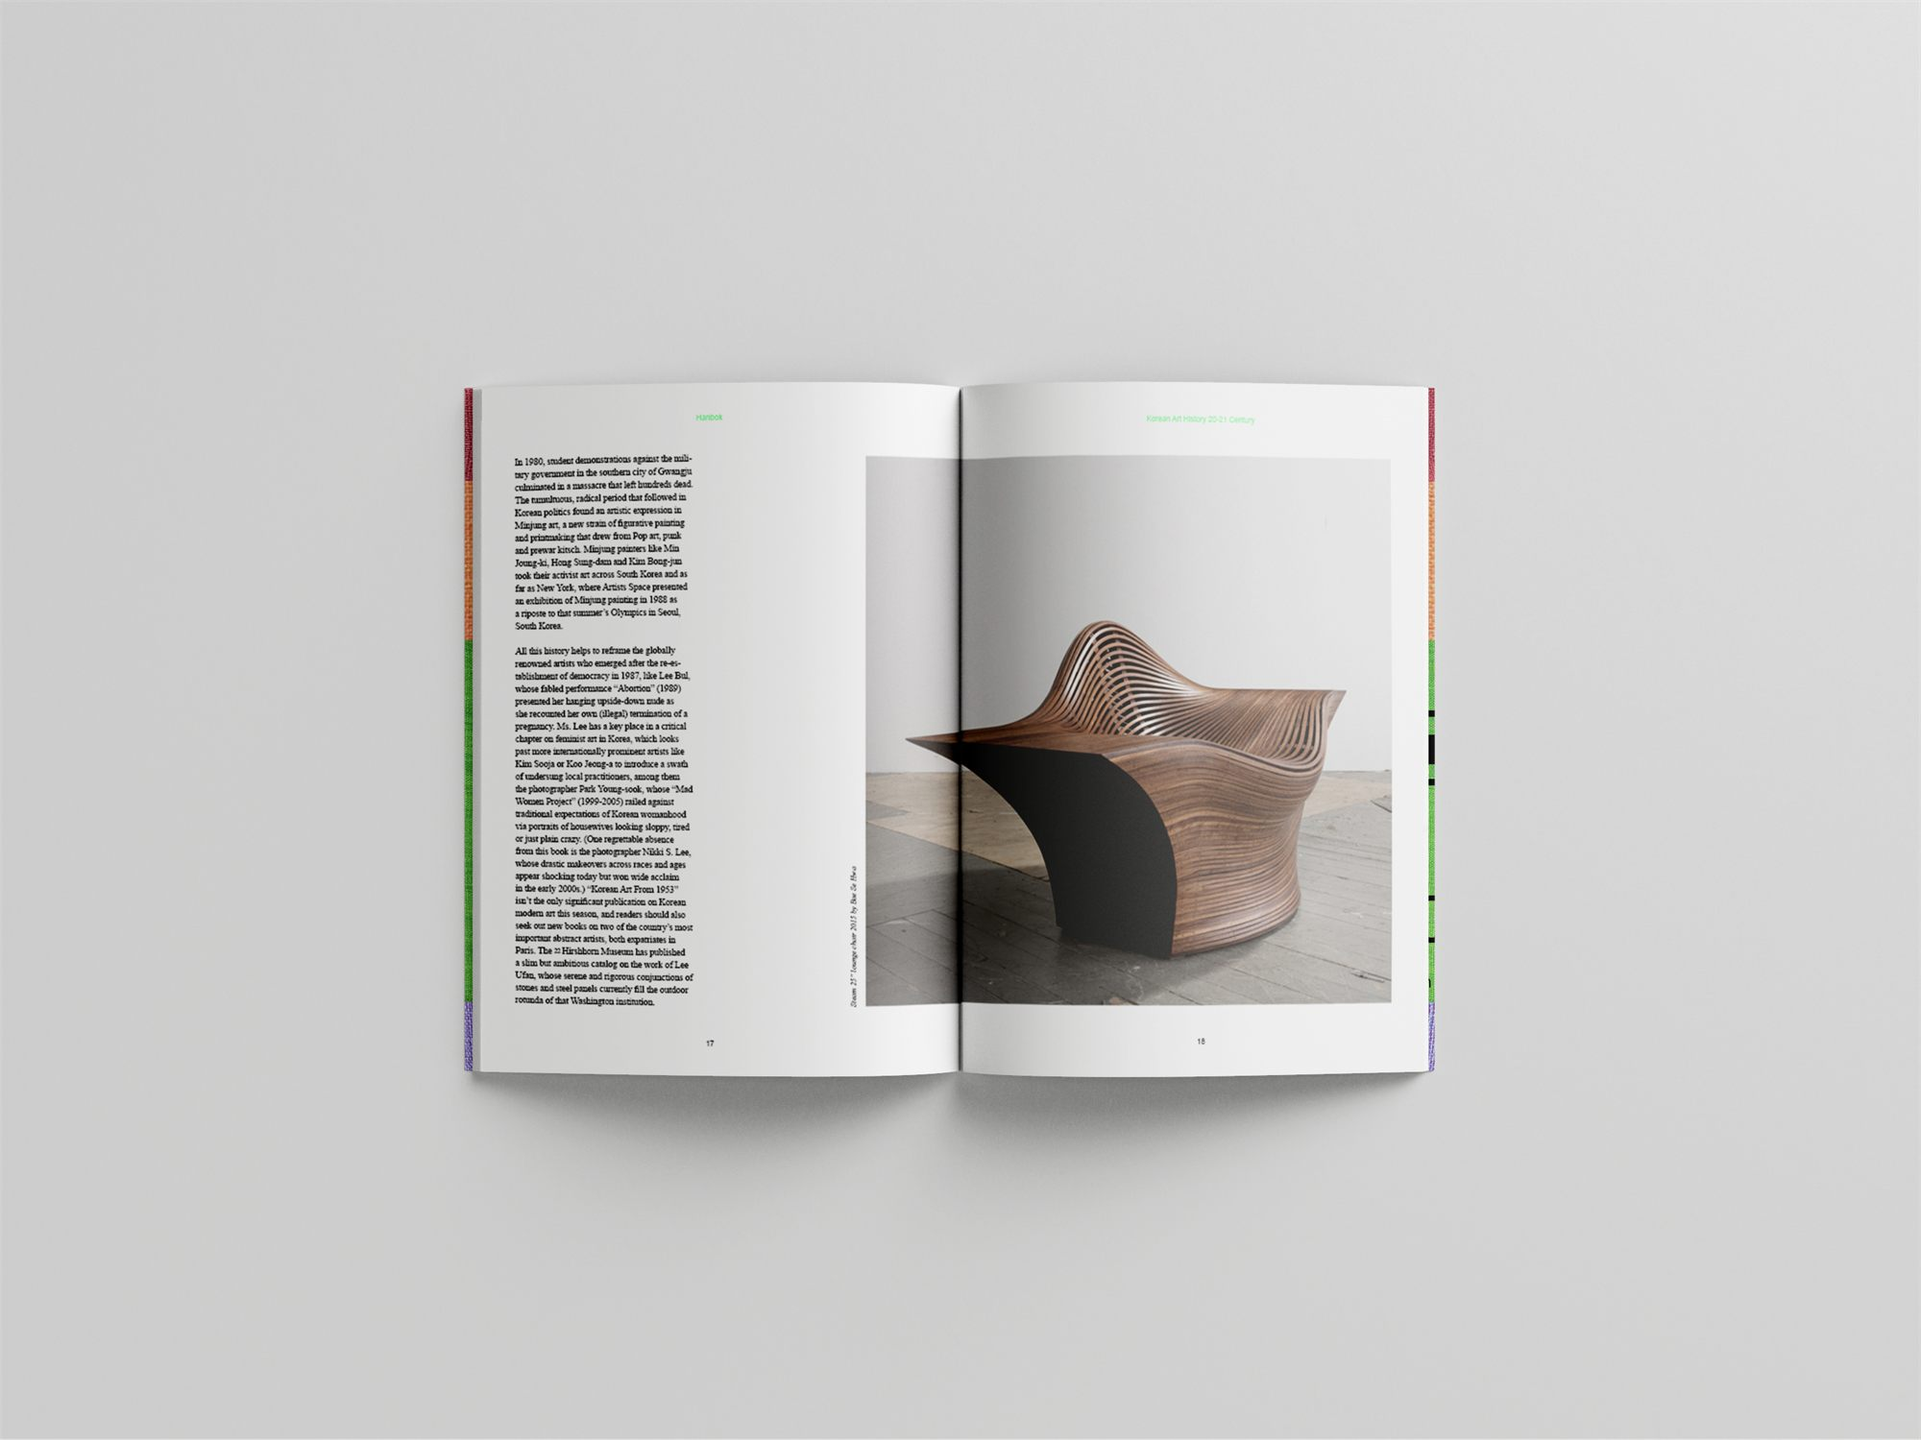
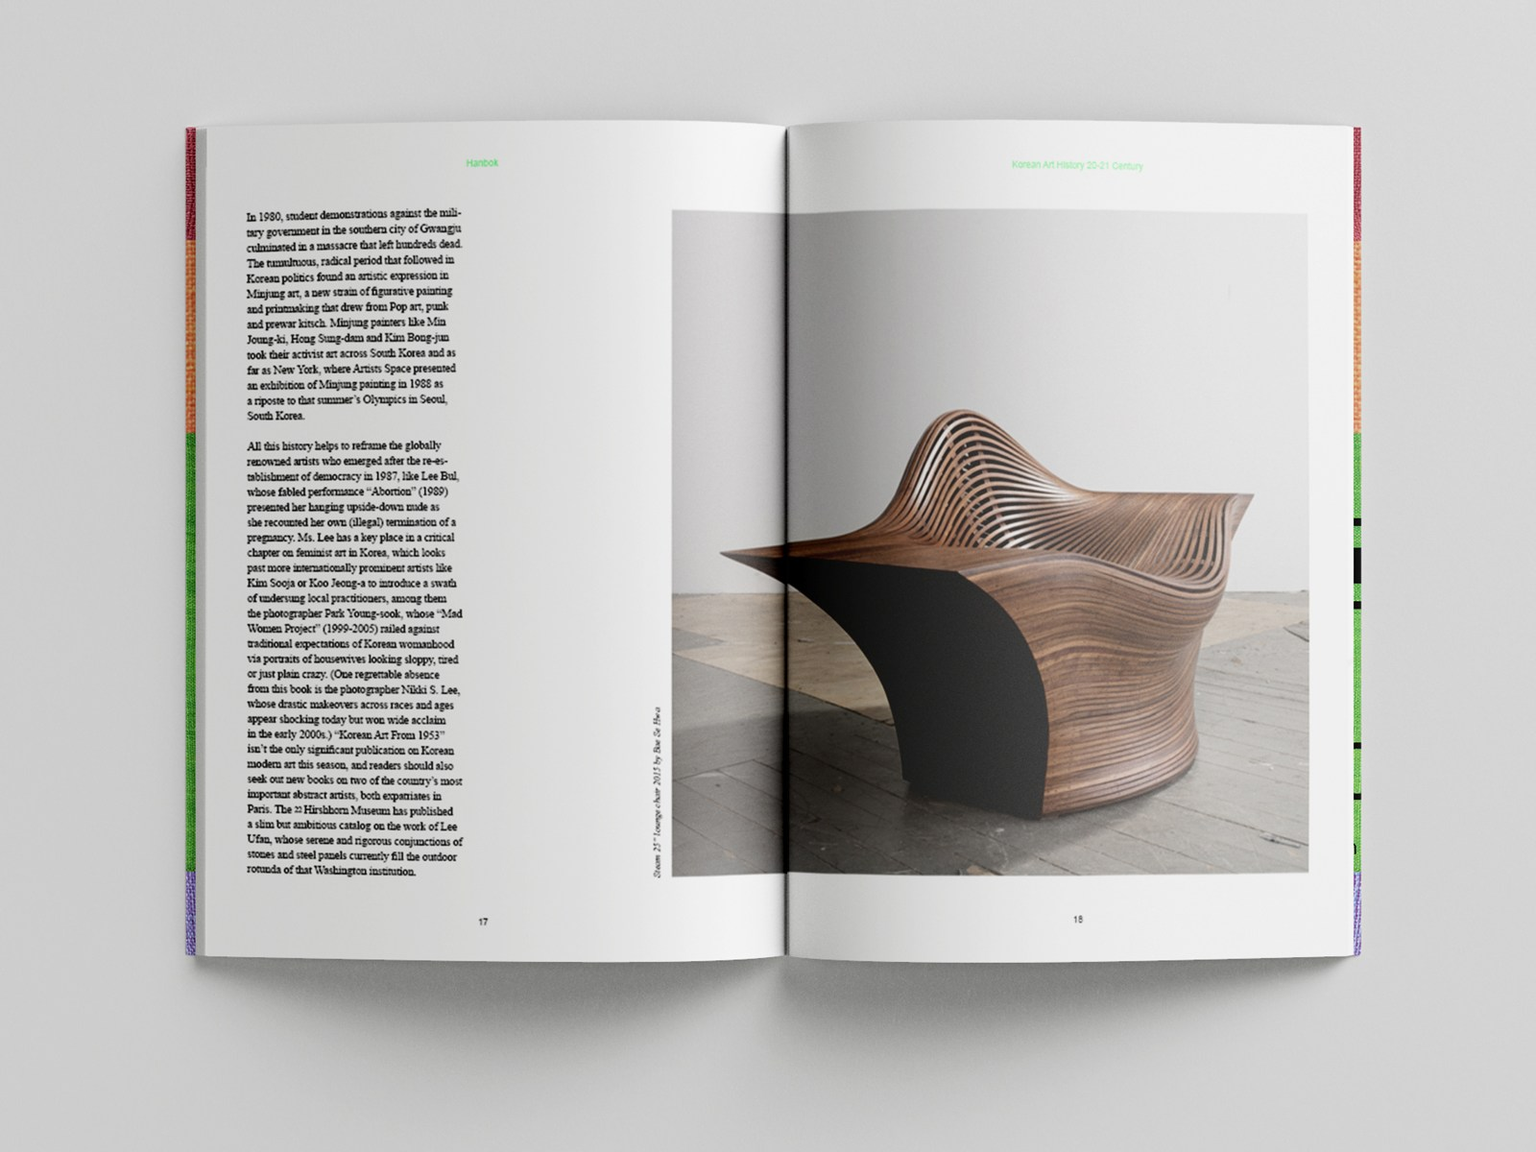
Hanbok: zoom the six book spreads (and the hero) in on the book
Re-cropped from the 3000px originals so the book fills about three quarters of each frame.

diff --git a/assets/media.js b/assets/media.js
@@ -9,7 +9,7 @@ window.MEDIA = {
   'shampoo-bar': { cover: 'images/shampoo-bar/01.jpg', coverRatio: '1920 / 1080', images: [['images/shampoo-bar/01.jpg', 1920, 1080], ['images/shampoo-bar/02.jpg', 1920, 1080], ['images/shampoo-bar/03.jpg', 1920, 1080], ['images/shampoo-bar/04.jpg', 1920, 1080], ['images/shampoo-bar/05.jpg', 1637, 921], ['images/shampoo-bar/06.jpg', 1920, 1080], ['images/shampoo-bar/07.jpg', 2000, 1509], ['images/shampoo-bar/08.png', 2000, 1509], ['images/shampoo-bar/09.jpg', 1280, 720], ['images/shampoo-bar/10.jpg', 1280, 720], ['images/shampoo-bar/11.jpg', 2000, 1126]] },
   'minari': { cover: 'images/minari/01.jpg', coverRatio: '2000 / 1125', images: [['images/minari/01.jpg', 2000, 1125], ['images/minari/02.jpg', 2000, 1125], ['images/minari/03.jpg', 2000, 1125], ['images/minari/04.jpg', 2000, 1125], ['images/minari/05.jpg', 2000, 1125], ['images/minari/06.jpg', 2000, 1125], ['images/minari/07.jpg', 2000, 1125], ['images/minari/08.jpg', 2000, 1125], ['images/minari/09.png', 2000, 1125], ['images/minari/10.png', 2000, 1125]] },
   'gsa': { cover: 'images/gsa/01.jpg', coverRatio: '2000 / 900', images: [['images/gsa/01.jpg', 2000, 900], ['images/gsa/02.png', 2000, 1214], ['images/gsa/03.png', 2000, 1214], ['images/gsa/04.png', 2000, 1214], ['images/gsa/05.png', 2000, 1214], ['images/gsa/06.png', 2000, 1214], ['images/gsa/07.png', 2000, 1214], ['images/gsa/08.png', 2000, 1214], ['images/gsa/09.jpg', 2000, 1214], ['images/gsa/10.jpg', 1333, 2000], ['images/gsa/11.jpg', 1333, 2000], ['images/gsa/12.jpg', 1333, 2000], ['images/gsa/13.jpg', 2000, 1214], ['images/gsa/14.jpg', 2000, 1214], ['images/gsa/15.jpg', 2000, 1334], ['images/gsa/16.jpg', 1024, 683], ['images/gsa/17.jpg', 2000, 1214], ['images/gsa/18.png', 2000, 1214], ['images/gsa/19.mp4', 1920, 1080], ['images/gsa/20.mp4', 1920, 1080], ['images/gsa/21.mp4', 1920, 1080]] },
-  'hanbok': { cover: 'images/hanbok/01.jpg', coverRatio: '2000 / 1500', images: [['images/hanbok/01.jpg', 2000, 1500], ['images/hanbok/02.jpg', 2000, 1500], ['images/hanbok/03.jpg', 2000, 1500], ['images/hanbok/04.jpg', 2000, 1500], ['images/hanbok/05.jpg', 2000, 1500], ['images/hanbok/06.jpg', 2000, 1500], ['images/hanbok/07.jpg', 2000, 1500], ['images/hanbok/08.jpg', 2000, 1500], ['images/hanbok/09.jpg', 2000, 1429], ['images/hanbok/10.jpg', 2000, 1429], ['images/hanbok/11.png', 1333, 2000], ['images/hanbok/12.png', 1333, 2000], ['images/hanbok/13.png', 1333, 2000], ['images/hanbok/14.jpg', 1709, 1265], ['images/hanbok/15.jpg', 1920, 1080], ['images/hanbok/16.jpg', 1920, 1080], ['images/hanbok/17.jpg', 1920, 1080], ['images/hanbok/18.jpg', 1920, 1080]] },
+  'hanbok': { cover: 'images/hanbok/01.jpg', coverRatio: '2000 / 1500', images: [['images/hanbok/01.jpg', 2000, 1500], ['images/hanbok/02.jpg', 2000, 1500], ['images/hanbok/03.jpg', 1600, 1200], ['images/hanbok/04.jpg', 1600, 1200], ['images/hanbok/05.jpg', 1600, 1200], ['images/hanbok/06.jpg', 1600, 1200], ['images/hanbok/07.jpg', 1600, 1200], ['images/hanbok/08.jpg', 1600, 1200], ['images/hanbok/09.jpg', 2000, 1429], ['images/hanbok/10.jpg', 2000, 1429], ['images/hanbok/11.png', 1333, 2000], ['images/hanbok/12.png', 1333, 2000], ['images/hanbok/13.png', 1333, 2000], ['images/hanbok/14.jpg', 1709, 1265], ['images/hanbok/15.jpg', 1920, 1080], ['images/hanbok/16.jpg', 1920, 1080], ['images/hanbok/17.jpg', 1920, 1080], ['images/hanbok/18.jpg', 1920, 1080]] },
   'bibi': { cover: 'images/bibi/07.jpg', coverRatio: '2000 / 752', images: [['images/bibi/01.jpg', 2000, 417], ['images/bibi/02.jpg', 2000, 455], ['images/bibi/04.jpg', 1200, 250], ['images/bibi/06.jpg', 1200, 553], ['images/bibi/07.jpg', 2000, 752], ['images/bibi/10.png', 2000, 2000], ['images/bibi/11.png', 2000, 2000], ['images/bibi/12.jpg', 1000, 11921], ['images/bibi/13.jpg', 1000, 11921], ['images/bibi/18.jpg', 1000, 10971], ['images/bibi/19.jpg', 1000, 10644], ['images/bibi/20.gif', 600, 450], ['images/bibi/21.jpg', 1000, 10226], ['images/bibi/22.png', 1600, 2000], ['images/bibi/23.jpg', 1600, 2000], ['images/bibi/24.jpg', 1600, 2000], ['images/bibi/25.mp4', 2251, 2814], ['images/bibi/26.jpg', 1600, 2000], ['images/bibi/27.jpg', 1500, 1875], ['images/bibi/28.mp4', 834, 1043], ['images/bibi/29.jpg', 1497, 1871], ['images/bibi/30.jpg', 1497, 1871], ['images/bibi/31.jpg', 1353, 947], ['images/bibi/32.jpg', 1258, 947], ['images/bibi/33.jpg', 1342, 892], ['images/bibi/34.jpg', 1595, 1027], ['images/bibi/36.jpg', 1353, 909], ['images/bibi/37.jpg', 1272, 912], ['images/bibi/38.jpg', 1909, 902], ['images/bibi/39.jpg', 1905, 905], ['images/bibi/40.jpg', 1510, 902], ['images/bibi/41.jpg', 980, 909], ['images/bibi/42.jpg', 1275, 886], ['images/bibi/43.jpg', 1916, 907], ['images/bibi/44.jpg', 1630, 904], ['images/bibi/45.jpg', 800, 1200], ['images/bibi/46.jpg', 800, 1200], ['images/bibi/47.jpg', 800, 1200], ['images/bibi/48.jpg', 800, 1200], ['images/bibi/49.jpg', 800, 1200], ['images/bibi/50.jpg', 800, 1200], ['images/bibi/63.jpg', 800, 1199], ['images/bibi/64.jpg', 800, 1199], ['images/bibi/65.jpg', 800, 1199], ['images/bibi/66.jpg', 800, 1199], ['images/bibi/67.jpg', 800, 1199], ['images/bibi/68.jpg', 800, 1199], ['images/bibi/69.jpg', 800, 1199], ['images/bibi/70.jpg', 800, 1199], ['images/bibi/71.jpg', 800, 1199], ['images/bibi/78.jpg', 800, 1200], ['images/bibi/79.jpg', 800, 1200], ['images/bibi/80.jpg', 800, 1200], ['images/bibi/81.jpg', 800, 1200], ['images/bibi/82.jpg', 800, 1200], ['images/bibi/83.jpg', 800, 1200], ['images/bibi/84.jpg', 800, 1200], ['images/bibi/91.jpg', 800, 1200], ['images/bibi/92.jpg', 800, 1200], ['images/bibi/93.jpg', 800, 1200], ['images/bibi/94.jpg', 800, 1200], ['images/bibi/95.jpg', 800, 1200], ['images/bibi/96.jpg', 800, 1200], ['images/bibi/97.jpg', 800, 1200], ['images/bibi/98.jpg', 800, 1200], ['images/bibi/103.jpg', 1334, 2000], ['images/bibi/104.jpg', 1334, 2000], ['images/bibi/105.jpg', 1334, 2000], ['images/bibi/106.jpg', 1334, 2000], ['images/bibi/107.jpg', 1342, 2000], ['images/bibi/108.jpg', 1342, 2000], ['images/bibi/109.jpg', 1334, 2000], ['images/bibi/110.jpg', 1342, 2000], ['images/bibi/111.jpg', 1342, 2000], ['images/bibi/114.jpg', 800, 1199], ['images/bibi/116.jpg', 800, 1199], ['images/bibi/117.jpg', 800, 1199], ['images/bibi/119.jpg', 800, 1199], ['images/bibi/123.jpg', 800, 1200], ['images/bibi/124.jpg', 800, 1200], ['images/bibi/125.jpg', 800, 1200], ['images/bibi/128.jpg', 800, 1200], ['images/bibi/129.jpg', 800, 1200], ['images/bibi/130.jpg', 800, 1200], ['images/bibi/131.jpg', 800, 1200], ['images/bibi/132.jpg', 800, 1200], ['images/bibi/133.jpg', 800, 1200], ['images/bibi/134.jpg', 800, 1200], ['images/bibi/135.jpg', 800, 1200], ['images/bibi/136.jpg', 800, 1200], ['images/bibi/137.jpg', 800, 1200], ['images/bibi/138.jpg', 800, 1200], ['images/bibi/139.jpg', 800, 1200], ['images/bibi/140.jpg', 800, 1200], ['images/bibi/14.gif', 1667, 1250], ['images/bibi/85.jpg', 800, 1199], ['images/bibi/86.jpg', 800, 1199], ['images/bibi/87.jpg', 800, 1199], ['images/bibi/88.jpg', 800, 1199], ['images/bibi/89.jpg', 800, 1199], ['images/bibi/90.jpg', 800, 1199], ['images/bibi/141.jpg', 494, 663], ['images/bibi/142.jpg', 1880, 280], ['images/bibi/143.jpg', 2000, 1031], ['images/bibi/144.jpg', 2000, 992], ['images/bibi/145.jpg', 2000, 974], ['images/bibi/146.jpg', 800, 1199], ['images/bibi/147.jpg', 800, 1199], ['images/bibi/148.jpg', 488, 626], ['images/bibi/149.jpg', 800, 1200]], clips: ['videos/bibi/01.mp4', 'videos/bibi/02.mp4', 'videos/bibi/04.mp4'] },
   'warp': { cover: 'images/covers/warp.jpg', coverRatio: '1440 / 810', images: [['images/warp/01.png', 1000, 3363], ['images/warp/02.jpg', 1000, 3940], ['images/warp/03.jpg', 1000, 3973], ['images/warp/04.jpg', 1000, 3766], ['images/warp/05.jpg', 1000, 2710], ['images/warp/06.jpg', 1000, 2766], ['images/warp/07.jpg', 1000, 2803], ['images/warp/08.jpg', 1000, 3120], ['images/warp/09.jpg', 1000, 2941], ['images/warp/10.png', 1000, 2867], ['images/warp/11.jpg', 1000, 6250], ['images/warp/12.png', 1000, 5810], ['images/warp/13.jpg', 1440, 1369], ['images/warp/14.jpg', 390, 5541] , ['images/warp/15.jpg', 1200, 1200], ['images/warp/16.jpg', 1200, 1200], ['images/warp/17.jpg', 1200, 1200], ['images/warp/18.jpg', 1200, 1200], ['images/warp/19.jpg', 1200, 1200], ['images/warp/20.jpg', 1200, 1200], ['images/warp/21.jpg', 1200, 1200], ['images/warp/22.jpg', 1200, 1200], ['images/warp/23.jpg', 1200, 1200], ['images/warp/24.jpg', 1200, 1200], ['images/warp/25.jpg', 1200, 1200], ['images/warp/26.jpg', 1200, 1200], ['images/warp/27.jpg', 1200, 1200], ['images/warp/28.jpg', 1200, 1200], ['images/warp/29.jpg', 1200, 1200], ['images/warp/30.jpg', 1200, 1200], ['images/warp/31.jpg', 1080, 1080], ['images/warp/32.jpg', 1200, 1200], ['images/warp/33.jpg', 1200, 1200], ['images/warp/34.jpg', 1080, 1080], ['images/warp/35.jpg', 1480, 975], ['images/warp/36.jpg', 1580, 1100], ['images/warp/37.jpg', 1600, 1114], ['images/warp/38.jpg', 1600, 1114], ['images/warp/39.jpg', 1600, 1103], ['images/warp/40.jpg', 1600, 1114], ['images/warp/41.jpg', 1334, 1080], ['images/warp/42.jpg', 1334, 1080], ['images/warp/43.jpg', 1224, 964], ['images/warp/44.jpg', 1224, 964], ['images/warp/45.jpg', 1224, 964], ['images/warp/46.jpg', 1600, 1043], ['images/warp/47.jpg', 1600, 1043], ['images/warp/48.jpg', 1600, 821], ['images/warp/49.jpg', 1600, 821], ['images/warp/50.jpg', 1600, 821], ['images/warp/51.jpg', 1600, 900], ['images/warp/52.jpg', 1600, 1007], ['images/warp/53.jpg', 1600, 900], ['images/warp/54.jpg', 1600, 900]] }, 
   'ig-characters': { cover: 'images/ig-characters/01.jpg', coverRatio: '1440 / 1440', images: [['images/ig-characters/01.jpg', 1440, 1440], ['images/ig-characters/02.jpg', 1440, 1439], ['images/ig-characters/03.jpg', 759, 720], ['images/ig-characters/04.jpg', 1080, 1349]] },

diff --git a/index.html b/index.html
@@ -19,19 +19,19 @@
 <meta name="theme-color" content="#0B0D10" data-theme-meta>
 <link rel="icon" href="favicon.ico" sizes="48x48">
 <link rel="icon" href="favicon-32.png" type="image/png" sizes="32x32">
-<link rel="icon" href="assets/logo.svg?v=202611220330" type="image/svg+xml">
+<link rel="icon" href="assets/logo.svg?v=202611220335" type="image/svg+xml">
 <link rel="apple-touch-icon" href="apple-touch-icon.png">
 <link rel="preconnect" href="https://fonts.googleapis.com">
 <link rel="preconnect" href="https://fonts.gstatic.com" crossorigin>
 <link href="https://fonts.googleapis.com/css2?family=Unbounded:wght@800;900&family=Manrope:wght@400;500;700;800&family=Martian+Mono:wght@400;500&display=swap" rel="stylesheet">
-<link rel="stylesheet" href="assets/style.css?v=202611220330">
+<link rel="stylesheet" href="assets/style.css?v=202611220335">
 </head>
 <body>
 <div class="es">
 <a class="es-skip" href="#main">Skip to content</a>
 <header class="es-header">
   <div class="es-wrap es-header__row">
-    <a class="es-logo" href="./" aria-label="Eva Song, home"><img src="assets/logo.svg?v=202611220330" alt="Eva Song logo" width="36" height="46"></a>
+    <a class="es-logo" href="./" aria-label="Eva Song, home"><img src="assets/logo.svg?v=202611220335" alt="Eva Song logo" width="36" height="46"></a>
     <div class="es-header__right">
       <nav class="es-nav" aria-label="Main">
       <a href="./#work"><span>[W]</span> Work</a>
@@ -77,7 +77,7 @@
     </div>
   </nav>
 
-  <!-- 01 SEASON PASS (WORK): tiles are built from assets/data.js?v=202611220330 -->
+  <!-- 01 SEASON PASS (WORK): tiles are built from assets/data.js?v=202611220335 -->
   <section class="es-section es-pass" id="work" aria-label="Season pass">
     <div class="es-wrap es-headrow">
       <div>
@@ -194,9 +194,9 @@
 
 </main>
 </div>
-<script src="assets/media.js?v=202611220330"></script>
-<script src="assets/data.js?v=202611220330"></script>
-<script src="assets/main.js?v=202611220330"></script>
+<script src="assets/media.js?v=202611220335"></script>
+<script src="assets/data.js?v=202611220335"></script>
+<script src="assets/main.js?v=202611220335"></script>
 <!-- visitor stats: https://evasong.goatcounter.com (no cookies) -->
 <script data-goatcounter="https://evasong.goatcounter.com/count" async src="//gc.zgo.at/count.js"></script>
 </body>

diff --git a/project.html b/project.html
@@ -18,19 +18,19 @@
 <meta name="theme-color" content="#0B0D10" data-theme-meta>
 <link rel="icon" href="favicon.ico" sizes="48x48">
 <link rel="icon" href="favicon-32.png" type="image/png" sizes="32x32">
-<link rel="icon" href="assets/logo.svg?v=202611220330" type="image/svg+xml">
+<link rel="icon" href="assets/logo.svg?v=202611220335" type="image/svg+xml">
 <link rel="apple-touch-icon" href="apple-touch-icon.png">
 <link rel="preconnect" href="https://fonts.googleapis.com">
 <link rel="preconnect" href="https://fonts.gstatic.com" crossorigin>
 <link href="https://fonts.googleapis.com/css2?family=Unbounded:wght@800;900&family=Manrope:wght@400;500;700;800&family=Martian+Mono:wght@400;500&display=swap" rel="stylesheet">
-<link rel="stylesheet" href="assets/style.css?v=202611220330">
+<link rel="stylesheet" href="assets/style.css?v=202611220335">
 </head>
 <body>
 <div class="es">
 <a class="es-skip" href="#main">Skip to content</a>
 <header class="es-header">
   <div class="es-wrap es-header__row">
-    <a class="es-logo" href="./" aria-label="Eva Song, home"><img src="assets/logo.svg?v=202611220330" alt="Eva Song logo" width="36" height="46"></a>
+    <a class="es-logo" href="./" aria-label="Eva Song, home"><img src="assets/logo.svg?v=202611220335" alt="Eva Song logo" width="36" height="46"></a>
     <div class="es-header__right">
       <nav class="es-nav" aria-label="Main">
       <a href="./#work" aria-current="page"><span>[W]</span> Work</a>
@@ -50,9 +50,9 @@
   <nav aria-label="Social"><a data-link="email" href="#">Email</a><a data-link="linkedin" href="#">LinkedIn</a><a data-link="instagram" href="#">Instagram</a><a data-link="resume" href="#">R&eacute;sum&eacute;</a></nav>
 </div></div></footer></main>
 </div>
-<script src="assets/media.js?v=202611220330"></script>
-<script src="assets/data.js?v=202611220330"></script>
-<script src="assets/main.js?v=202611220330"></script>
+<script src="assets/media.js?v=202611220335"></script>
+<script src="assets/data.js?v=202611220335"></script>
+<script src="assets/main.js?v=202611220335"></script>
 <!-- visitor stats: https://evasong.goatcounter.com (no cookies) -->
 <script data-goatcounter="https://evasong.goatcounter.com/count" async src="//gc.zgo.at/count.js"></script>
 </body>

diff --git a/history.html b/history.html
@@ -18,19 +18,19 @@
 <meta name="theme-color" content="#0B0D10" data-theme-meta>
 <link rel="icon" href="favicon.ico" sizes="48x48">
 <link rel="icon" href="favicon-32.png" type="image/png" sizes="32x32">
-<link rel="icon" href="assets/logo.svg?v=202611220330" type="image/svg+xml">
+<link rel="icon" href="assets/logo.svg?v=202611220335" type="image/svg+xml">
 <link rel="apple-touch-icon" href="apple-touch-icon.png">
 <link rel="preconnect" href="https://fonts.googleapis.com">
 <link rel="preconnect" href="https://fonts.gstatic.com" crossorigin>
 <link href="https://fonts.googleapis.com/css2?family=Unbounded:wght@800;900&family=Manrope:wght@400;500;700;800&family=Martian+Mono:wght@400;500&display=swap" rel="stylesheet">
-<link rel="stylesheet" href="assets/style.css?v=202611220330">
+<link rel="stylesheet" href="assets/style.css?v=202611220335">
 </head>
 <body>
 <div class="es">
 <a class="es-skip" href="#main">Skip to content</a>
 <header class="es-header">
   <div class="es-wrap es-header__row">
-    <a class="es-logo" href="./" aria-label="Eva Song, home"><img src="assets/logo.svg?v=202611220330" alt="Eva Song logo" width="36" height="46"></a>
+    <a class="es-logo" href="./" aria-label="Eva Song, home"><img src="assets/logo.svg?v=202611220335" alt="Eva Song logo" width="36" height="46"></a>
     <div class="es-header__right">
       <nav class="es-nav" aria-label="Main">
       <a href="./#work"><span>[W]</span> Work</a>
@@ -218,9 +218,9 @@
 </main>
 
 </div>
-<script src="assets/media.js?v=202611220330"></script>
-<script src="assets/data.js?v=202611220330"></script>
-<script src="assets/main.js?v=202611220330"></script>
+<script src="assets/media.js?v=202611220335"></script>
+<script src="assets/data.js?v=202611220335"></script>
+<script src="assets/main.js?v=202611220335"></script>
 <!-- visitor stats: https://evasong.goatcounter.com (no cookies) -->
 <script data-goatcounter="https://evasong.goatcounter.com/count" async src="//gc.zgo.at/count.js"></script>
 </body>

diff --git a/play.html b/play.html
@@ -18,19 +18,19 @@
 <meta name="theme-color" content="#0B0D10" data-theme-meta>
 <link rel="icon" href="favicon.ico" sizes="48x48">
 <link rel="icon" href="favicon-32.png" type="image/png" sizes="32x32">
-<link rel="icon" href="assets/logo.svg?v=202611220330" type="image/svg+xml">
+<link rel="icon" href="assets/logo.svg?v=202611220335" type="image/svg+xml">
 <link rel="apple-touch-icon" href="apple-touch-icon.png">
 <link rel="preconnect" href="https://fonts.googleapis.com">
 <link rel="preconnect" href="https://fonts.gstatic.com" crossorigin>
 <link href="https://fonts.googleapis.com/css2?family=Unbounded:wght@800;900&family=Manrope:wght@400;500;700;800&family=Martian+Mono:wght@400;500&display=swap" rel="stylesheet">
-<link rel="stylesheet" href="assets/style.css?v=202611220330">
+<link rel="stylesheet" href="assets/style.css?v=202611220335">
 </head>
 <body>
 <div class="es">
 <a class="es-skip" href="#main">Skip to content</a>
 <header class="es-header">
   <div class="es-wrap es-header__row">
-    <a class="es-logo" href="./" aria-label="Eva Song, home"><img src="assets/logo.svg?v=202611220330" alt="Eva Song logo" width="36" height="46"></a>
+    <a class="es-logo" href="./" aria-label="Eva Song, home"><img src="assets/logo.svg?v=202611220335" alt="Eva Song logo" width="36" height="46"></a>
     <div class="es-header__right">
       <nav class="es-nav" aria-label="Main">
       <a href="./#work"><span>[W]</span> Work</a>
@@ -101,9 +101,9 @@
 </main>
 
 </div>
-<script src="assets/media.js?v=202611220330"></script>
-<script src="assets/data.js?v=202611220330"></script>
-<script src="assets/main.js?v=202611220330"></script>
+<script src="assets/media.js?v=202611220335"></script>
+<script src="assets/data.js?v=202611220335"></script>
+<script src="assets/main.js?v=202611220335"></script>
 <!-- visitor stats: https://evasong.goatcounter.com (no cookies) -->
 <script data-goatcounter="https://evasong.goatcounter.com/count" async src="//gc.zgo.at/count.js"></script>
 </body>

diff --git a/404.html b/404.html
@@ -19,19 +19,19 @@
 <meta name="theme-color" content="#0B0D10" data-theme-meta>
 <link rel="icon" href="favicon.ico" sizes="48x48">
 <link rel="icon" href="favicon-32.png" type="image/png" sizes="32x32">
-<link rel="icon" href="assets/logo.svg?v=202611220330" type="image/svg+xml">
+<link rel="icon" href="assets/logo.svg?v=202611220335" type="image/svg+xml">
 <link rel="apple-touch-icon" href="apple-touch-icon.png">
 <link rel="preconnect" href="https://fonts.googleapis.com">
 <link rel="preconnect" href="https://fonts.gstatic.com" crossorigin>
 <link href="https://fonts.googleapis.com/css2?family=Unbounded:wght@800;900&family=Manrope:wght@400;500;700;800&family=Martian+Mono:wght@400;500&display=swap" rel="stylesheet">
-<link rel="stylesheet" href="assets/style.css?v=202611220330">
+<link rel="stylesheet" href="assets/style.css?v=202611220335">
 </head>
 <body>
 <div class="es">
 <a class="es-skip" href="#main">Skip to content</a>
 <header class="es-header">
   <div class="es-wrap es-header__row">
-    <a class="es-logo" href="/" aria-label="Eva Song, home"><img src="assets/logo.svg?v=202611220330" alt="Eva Song logo" width="36" height="46"></a>
+    <a class="es-logo" href="/" aria-label="Eva Song, home"><img src="assets/logo.svg?v=202611220335" alt="Eva Song logo" width="36" height="46"></a>
     <div class="es-header__right">
       <nav class="es-nav" aria-label="Main">
       <a href="/#work"><span>[W]</span> Work</a>
@@ -53,9 +53,9 @@
 </main>
 
 </div>
-<script src="assets/media.js?v=202611220330"></script>
-<script src="assets/data.js?v=202611220330"></script>
-<script src="assets/main.js?v=202611220330"></script>
+<script src="assets/media.js?v=202611220335"></script>
+<script src="assets/data.js?v=202611220335"></script>
+<script src="assets/main.js?v=202611220335"></script>
 <!-- visitor stats: https://evasong.goatcounter.com (no cookies) -->
 <script data-goatcounter="https://evasong.goatcounter.com/count" async src="//gc.zgo.at/count.js"></script>
 </body>
